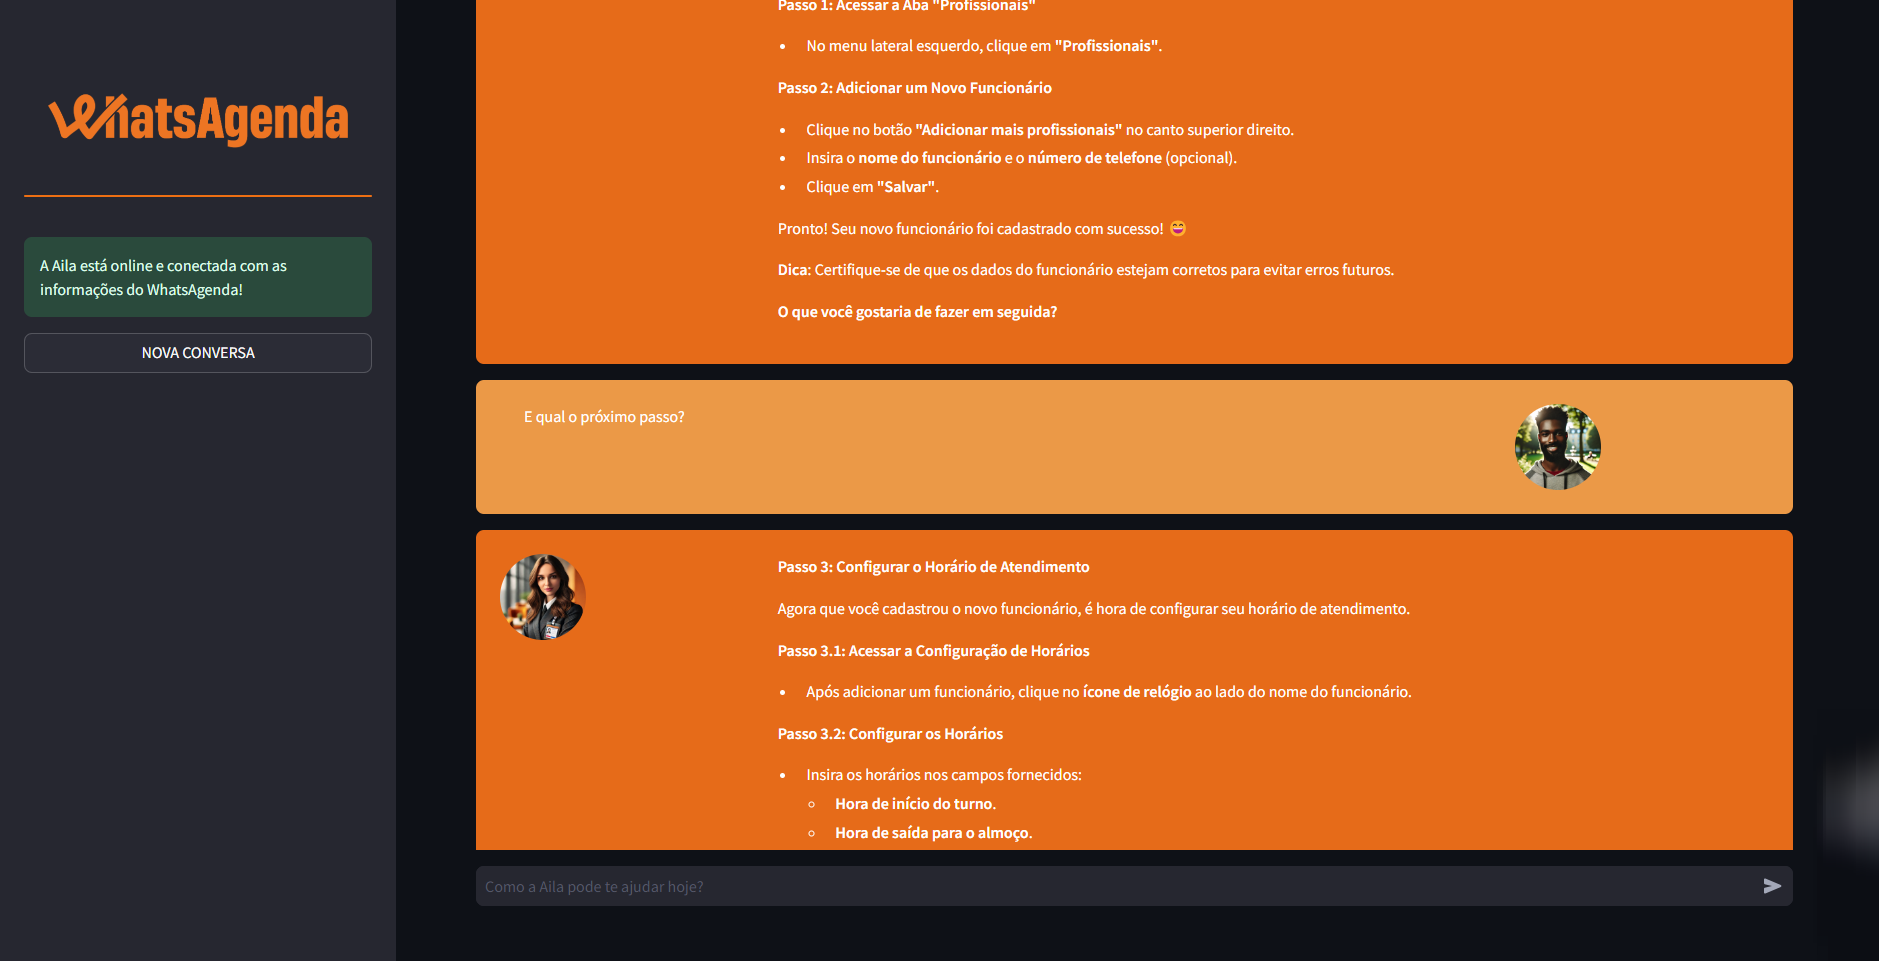
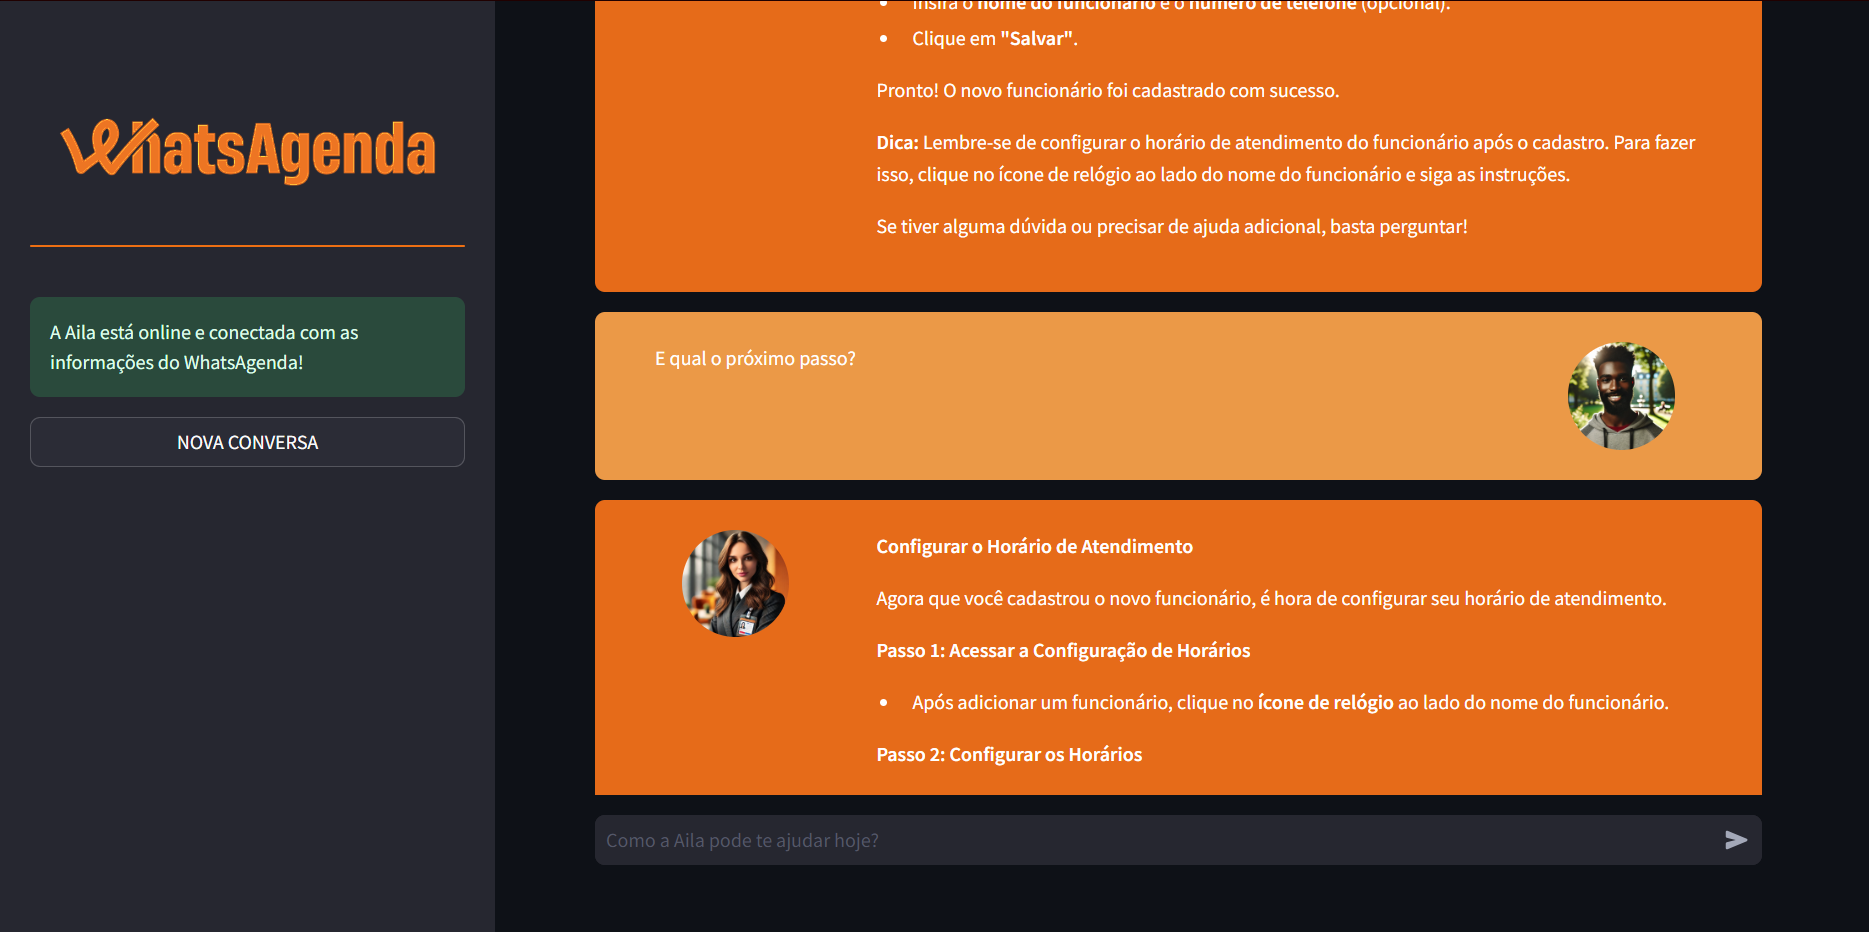
style: Update CSS styles for chat messages in html_template.py

diff --git a/src/html_template.py b/src/html_template.py
@@ -1,10 +1,10 @@
 # html_template.py: Script para criar os templates de HTML para a interface do chatbot Aila
 
 hide_st_style = '''
-            <style>
-            #MainMenu {visibility: hidden;}
-            footer {visibility: hidden;}
-            header {visibility: hidden;}
+    <style>
+    #MainMenu {visibility: hidden;}
+    footer {visibility: hidden;}
+    header {visibility: hidden;}
 '''
 
 css = '''
@@ -12,29 +12,48 @@ css = '''
 .chat-message {
     padding: 1.5rem; border-radius: 0.5rem; margin-bottom: 1rem; display: flex
 }
+
 .chat-message.user {
     background-color: #eb9947;
-    justify-content: flex-end;
+    justify-content: flex-start;
     flex-direction: row-reverse;
 }
+
 .chat-message.bot {
     background-color: #e66b19;
     justify-content: flex-start;
     flex-direction: row;
 }
+
 .chat-message .avatar {
-  width: 20%;
+    width: 20%;
+    display: flex;
+    margin-right: auto;
+    margin-left: auto;
 }
+
 .chat-message .avatar img {
-  max-width: 86px;
-  max-height: 86px;
-  border-radius: 50%;
-  object-fit: cover;
+    max-width: 86px;
+    max-height: 86px;
+    border-radius: 50%;
+    object-fit: cover;
+    display: flex;
+    margin-right: auto;
+    margin-left: auto;
 }
-.chat-message .message {
-  width: 80%;
-  padding: 0 1.5rem;
-  color: #fff;
+
+.chat-message.bot .message {
+    width: 80%;
+    padding: 0 1.5rem 0 1.5rem;
+    color: #fff;
+    text-align: left;
+}
+
+.chat-message.user .message {
+    width: 80%;
+    padding: 0 1.5rem 0 1.5rem;
+    color: #fff;
+    text-align: left;
 }
 '''
 
